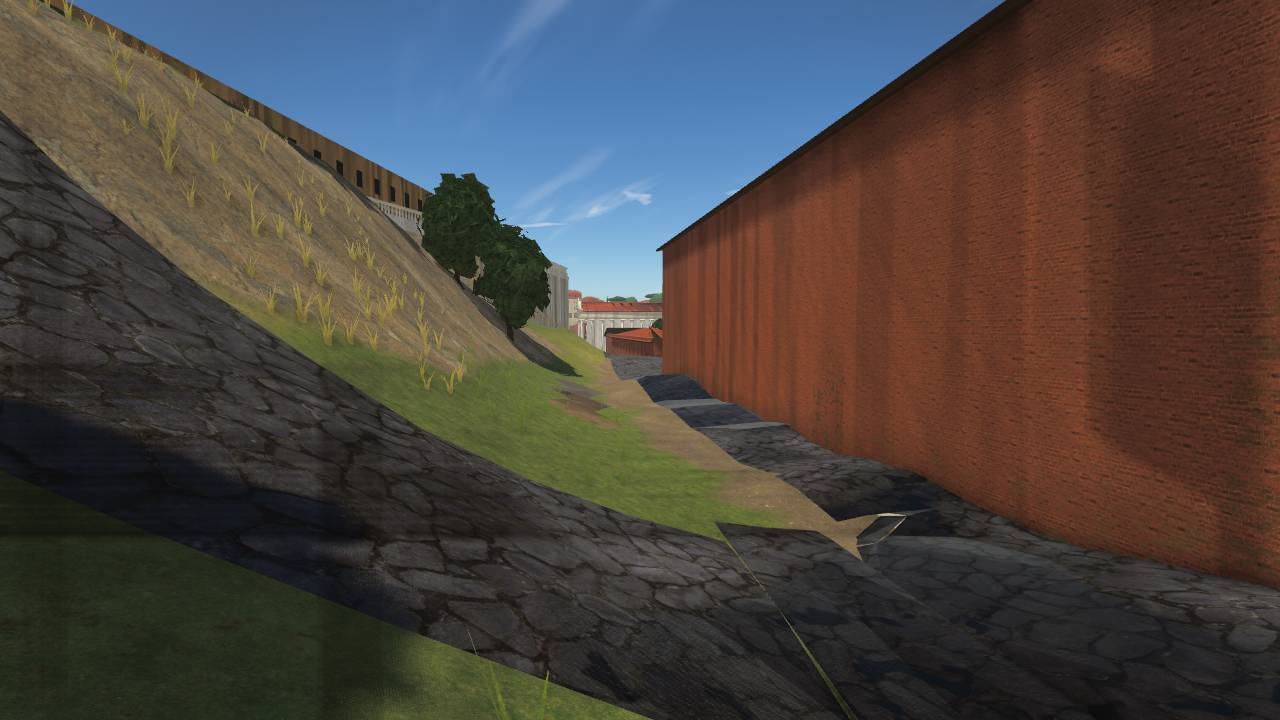
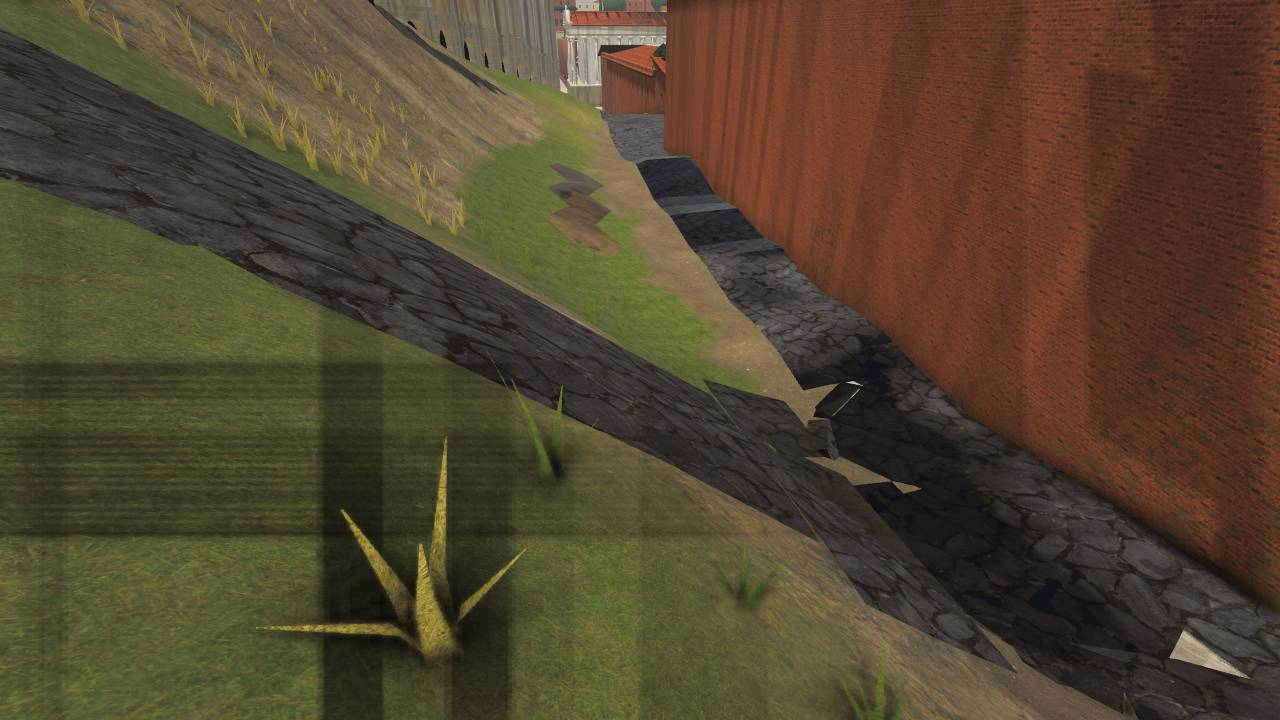
G1b: a flight of steps beside a road keeps within a walkable bank of it (Gradus Monetae wall by the Clivus Argentarius); after shots and core slope map re-taken

diff --git a/src/world/terrain/heightmap.ts b/src/world/terrain/heightmap.ts
@@ -942,6 +942,10 @@ export const ROAD_GRADE_CAP = 0.25;
 export const ROAD_GRADE_TARGET = 0.21;
 /** v2: bank run per metre of cut or fill (real m). Eased-linear banks: 1.25 / 2.2 ≈ 30°. */
 export const ROAD_BANK_PER_M = 2.2;
+/** v2: the banks of a flight of steps (real m), as v1's. */
+const STEP_BANK_RUN = 6;
+/** v2: a flight of steps stands at most this grade × the gap above or below an earlier road's core beside it. */
+const STEP_BESIDE_ROAD_GRADE = 0.45;
 /** v2: the crosswise-level core of a road is at least this half width (real m), so the grid samples next to a narrow road's centreline sit on its profile. */
 const ROAD_CORE_MIN = 3.4;
 
@@ -1051,7 +1055,7 @@ function stampV2(c: StampGrid, real: Float32Array, out: Float32Array, roads: rea
    * `r` real m of a point, and whether the point's own nearest sample is held (the road runs
    * through it, not past it); NaN when there is none.
    */
-  const heldNear = (x: number, z: number, r: number): { v: number; through: boolean; road: boolean } => {
+  const heldNear = (x: number, z: number, r: number, roadsOnly = false): { v: number; through: boolean; road: boolean; dist: number } => {
     const fx = (x * S - minX) / spacing, fz = (z * S - minZ) / spacing;
     const rc = (r * S) / spacing;
     const jx0 = Math.max(0, Math.ceil(fx - rc)), jx1 = Math.min(nx - 1, Math.floor(fx + rc));
@@ -1060,7 +1064,7 @@ function stampV2(c: StampGrid, real: Float32Array, out: Float32Array, roads: rea
     for (let iz = jz0; iz <= jz1; iz++) {
       for (let ix = jx0; ix <= jx1; ix++) {
         const k = iz * nx + ix;
-        if (!core[k] && !taken[k]) continue;
+        if (roadsOnly ? !taken[k] : !core[k] && !taken[k]) continue;
         const d2 = (ix - fx) * (ix - fx) + (iz - fz) * (iz - fz);
         if (d2 <= best) {
           best = d2;
@@ -1071,7 +1075,7 @@ function stampV2(c: StampGrid, real: Float32Array, out: Float32Array, roads: rea
     }
     const ix = Math.round(fx), iz = Math.round(fz);
     const k = ix >= 0 && iz >= 0 && ix < nx && iz < c.nz ? iz * nx + ix : -1;
-    return { v, through: k >= 0 && (core[k] === 1 || taken[k] === 1), road };
+    return { v, through: k >= 0 && (core[k] === 1 || taken[k] === 1), road, dist: (Math.sqrt(best) * spacing) / S };
   };
   const cellReal = spacing / S;
   const ordered = [...roads.filter((r) => r.paving !== 'steps'), ...roads.filter((r) => r.paving === 'steps')];
@@ -1089,7 +1093,8 @@ function stampV2(c: StampGrid, real: Float32Array, out: Float32Array, roads: rea
     const onRoad = new Uint8Array(pts.length);
     const graze = new Float64Array(pts.length).fill(NaN);
     let anyThrough = false, anyGraze = false;
-    const r = Math.max(road.width / 2, ROAD_CORE_MIN) + cellReal;
+    const coreReach = Math.max(road.width / 2, ROAD_CORE_MIN);
+    const r = coreReach + cellReal;
     for (let i = 0; i < pts.length; i++) {
       const h = heldNear(pts[i][0], pts[i][1], r);
       if (Number.isNaN(h.v)) continue;
@@ -1108,6 +1113,19 @@ function stampV2(c: StampGrid, real: Float32Array, out: Float32Array, roads: rea
     // Two footprints on the line at levels the cap cannot join: the road ramps inside their edges.
     if (anyThrough && !steps) relaxPins(s, through, onRoad, base, cap);
     let level = anyThrough ? holdToFixed(s, base, through, cap) : base;
+    if (steps) {
+      // A flight beside an earlier road keeps within a walkable bank of that road's level: its
+      // banks may not touch the road's core or shoulder, so a flight climbing faster than the road
+      // beside it would otherwise stand as a wall along it (the Gradus Monetae by the Clivus
+      // Argentarius). Where the two part, the flight climbs as before.
+      for (let i = 0; i < pts.length; i++) {
+        if (!Number.isNaN(through[i])) continue;
+        const h = heldNear(pts[i][0], pts[i][1], coreReach + STEP_BANK_RUN + cellReal, true);
+        if (Number.isNaN(h.v)) continue;
+        const lim = STEP_BESIDE_ROAD_GRADE * Math.max(0, h.dist - coreReach);
+        level[i] = Math.min(h.v + lim, Math.max(h.v - lim, level[i]));
+      }
+    }
     if (anyGraze && !steps) {
       // A graze pulls the road toward the level beside it: the least change to the profile that
       // meets every graze within the cap (Chebyshev, as the regrade), then the points it runs
@@ -1139,7 +1157,7 @@ function stampV2(c: StampGrid, real: Float32Array, out: Float32Array, roads: rea
       return r;
     };
     // Flights of steps keep v1's 6 m: they climb cliffs, which stay barriers beside them.
-    const runs = Float64Array.from(level, (y, i) => (steps ? 6 : bankRun(i, y)));
+    const runs = Float64Array.from(level, (y, i) => (steps ? STEP_BANK_RUN : bankRun(i, y)));
     let maxRun = 6;
     for (const r of runs) maxRun = Math.max(maxRun, r);
     const reach = coreW + maxRun;

diff --git a/docs/modules/terrain.md b/docs/modules/terrain.md
@@ -150,7 +150,10 @@ today's, byte-identical):
   level of a footprint its band grazes (as far as the cap allows), and where two footprints on its
   line cannot be joined at the cap (`relaxPins`) or a graze is out of reach, its level core paves
   over the footprint's edge. A road's banks leave an earlier road's core and shoulder alone.
-  Flights of steps (`paving: 'steps'`) keep their climb and v1's 6 m banks.
+  Flights of steps (`paving: 'steps'`) keep their climb and v1's 6 m banks, but a flight beside an
+  earlier road's core stays within `STEP_BESIDE_ROAD_GRADE` (0.45) × the gap of that road's level:
+  its banks may not touch the road, so the Gradus Monetae stood as a 4 m wall along the Clivus
+  Argentarius (the live climb of the Capitoline stalled on it).
 - **Eased-linear flanks** (`easedLinear`): the top grade is 1.25 × the mean (smoothstep: 1.5 ×);
   the steep designed flanks get longer runs (`V2_FLANK_RUN`: capitolium 71, arx 64, palatine-t34
   53 real m). Plateaus and feet stay where they are. `node scripts/audit/g1b-flanks.mjs` prints each
